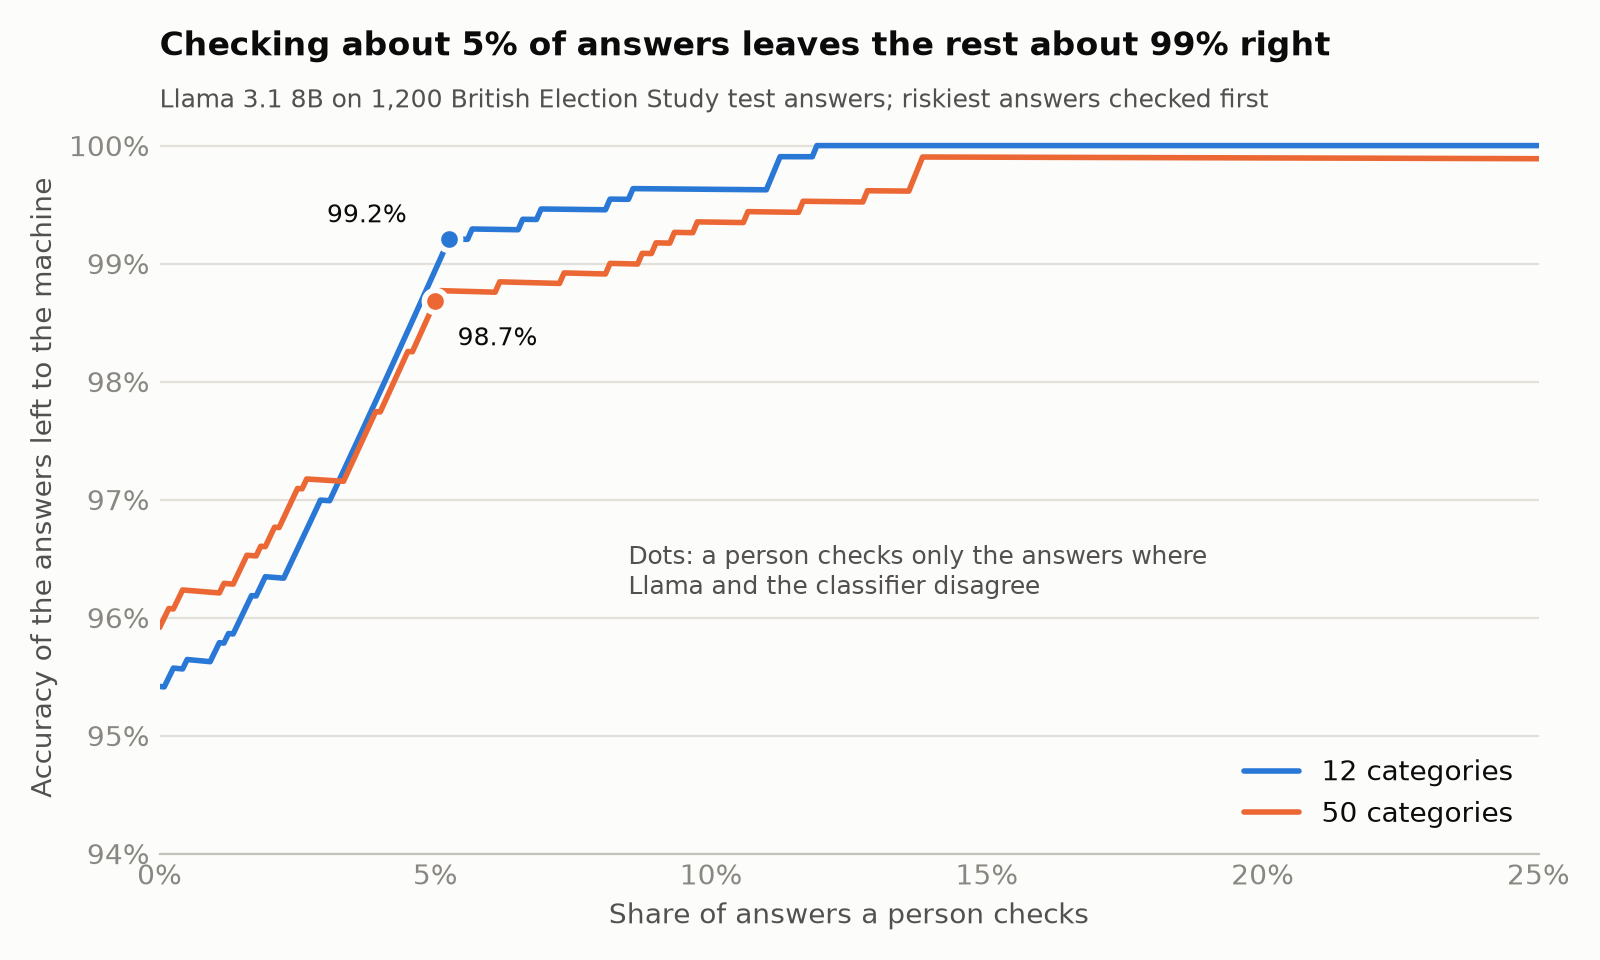
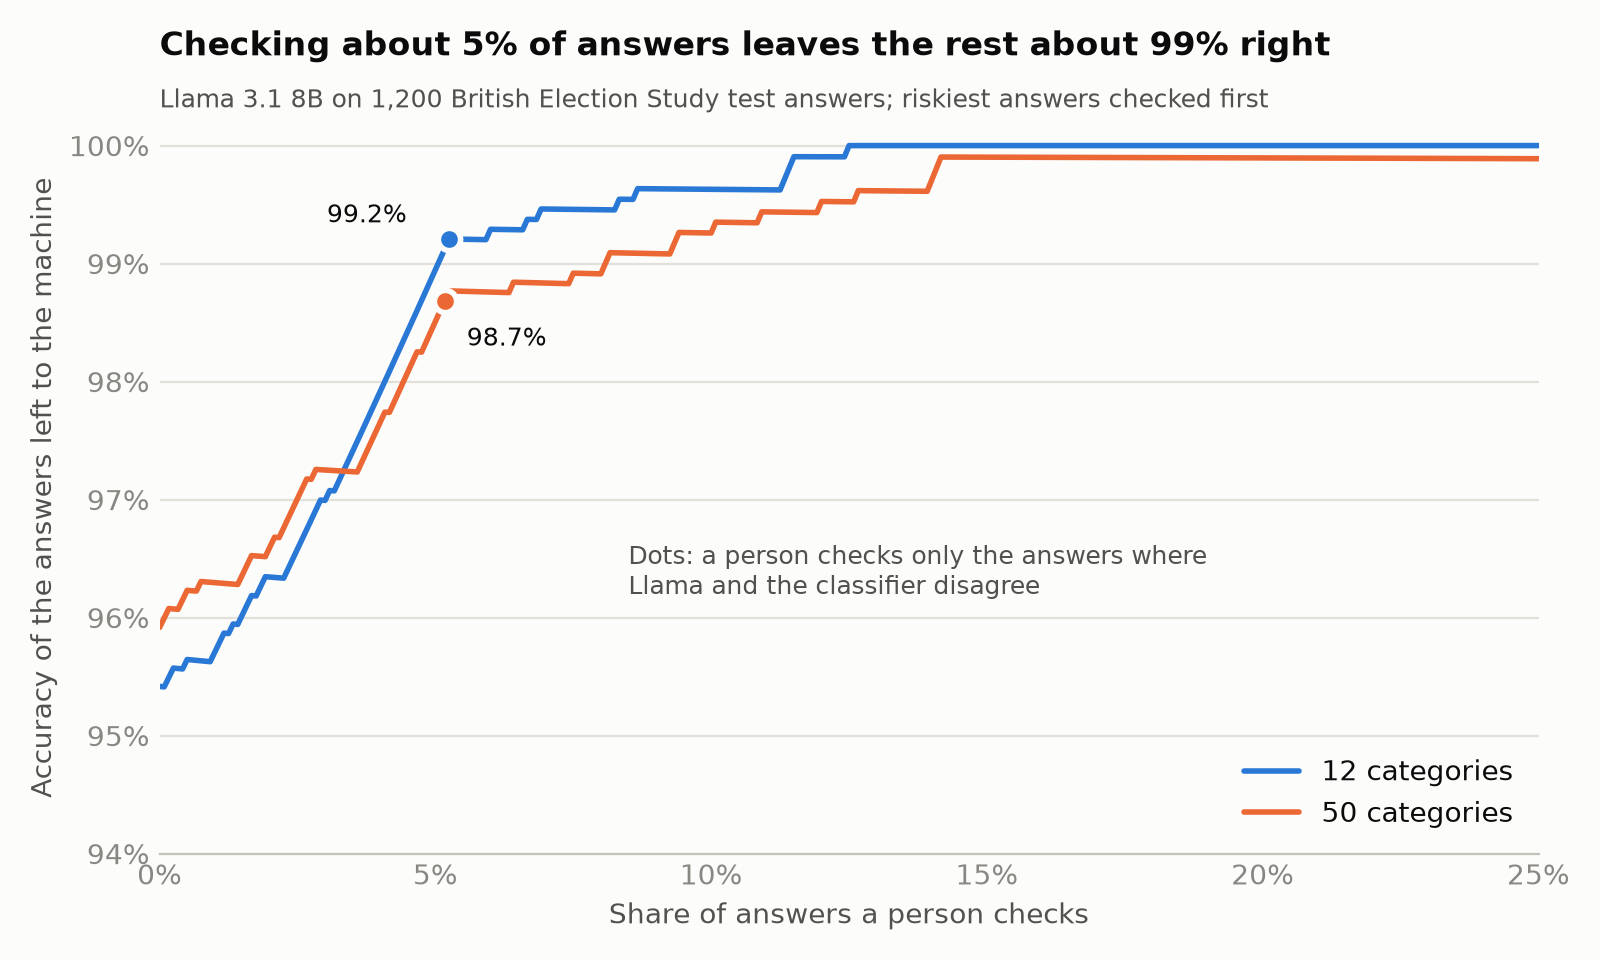
Fix: leave evaluation respondents out of the classifier's training data, as D-010 says (D-027); results recomputed

diff --git a/coding_eval/baseline.py b/coding_eval/baseline.py
@@ -57,7 +57,14 @@ def training_answers():
 def train_and_predict(split="test"):
     """Train on waves 23-24, code one split, and save the results and the predictions."""
     train = training_answers()
-    # everyone in the evaluation set is left out of training by design (D-010)
+    # Leave out everyone in the evaluation set (dev and test), so the classifier never
+    # sees their earlier answers (D-010)
+    evaluation_ids = set(eval_set("dev")["id"]) | set(eval_set("test")["id"])
+    left_out = train["id"].isin(evaluation_ids)
+    print(
+        f"Left out {left_out.sum():,} training answers from {train.loc[left_out, 'id'].nunique():,}"
+        f"of the {len(evaluation_ids):,} evaluation respondents")
+    train = train[~left_out]
     evalset = eval_set(split)
 
     rows = []

diff --git a/docs/decision_log.md b/docs/decision_log.md
@@ -27,3 +27,4 @@
 | D-024 | 2026-10-13 | Prompt A is not run on the test set                                                                                                                                                                                                                                                                                                                                                                                   | On the 300 dev answers the two prompts gave the same code to 98–99% of answers and neither was better (only A right / only B right: 1 / 0 on 12 categories, 2 / 3 on 50; McNemar p = 1.0). Dev favours B, whose examples came from dev, so a test run (about 5 h) is unlikely to show a gain for the examples                                                                                                                                                                  |
 | D-025 | 2026-10-13 | Error analysis (roadmap H6): confusion matrices of Llama's test codes against the BES codes, plus a blind review of 30 random Llama mistakes (12 categories, seed 2026). Each answer is shown with the two codes in random order as X and Y; I judge which is right (X, Y, both or neither) and why, without knowing which code is the BES one. Verdicts follow the BES coding guide, with my codebook as its summary | Shows what kind of mistakes Llama makes and how many of its "errors" are debatable (README finding 6). The reading sheet stays in data/ (git-ignored); only counts are committed. Nothing is re-run or changed: the prompt stays frozen (D-013)                                                                                                                                                                                                                                |
 | D-026 | 2026-10-14 | Moved the ten pipeline scripts into one package, `coding_eval` (roadmap H12): every setting in `config.toml`, one command that recomputes every results/ file from the saved codes (`python -m coding_eval metrics`), and pytest tests for the metrics, the frozen prompt and reading Llama's replies                                                                                                                 | One command instead of ten scripts run in order with SPLIT edited by hand, and tests that catch a changed prompt or a broken metric. On my saved codes the command reproduced every committed results/ file exactly (git status clean), so no number changed. Earlier entries name the old scripts, e.g. llm_code.py; they remain in the git history                                                                                                                           |
+| D-027 | 2026-10-15 | Bug fix: evaluation respondents were not actually left out of the classifier's training data as D-010 says (the code had only a comment). Fixed in coding_eval/baseline.py: 1,448 wave 23–24 answers from 997 of the 1,500 dev and test respondents are now removed (training: 40,956 answers). Classifier re-run on dev and test, nothing else changed                                                               | 66% of test respondents had earlier coded answers in training: a small leak in the classifier's favour. Removing it left the classifier's test accuracy unchanged on 12 categories (97.4%) and lowered it by 0.2 points on 50 (96.0% to 95.8%). Llama's codes are unaffected. Using the test set again fixes a bug; nothing was tuned                                                                                                                                          |
